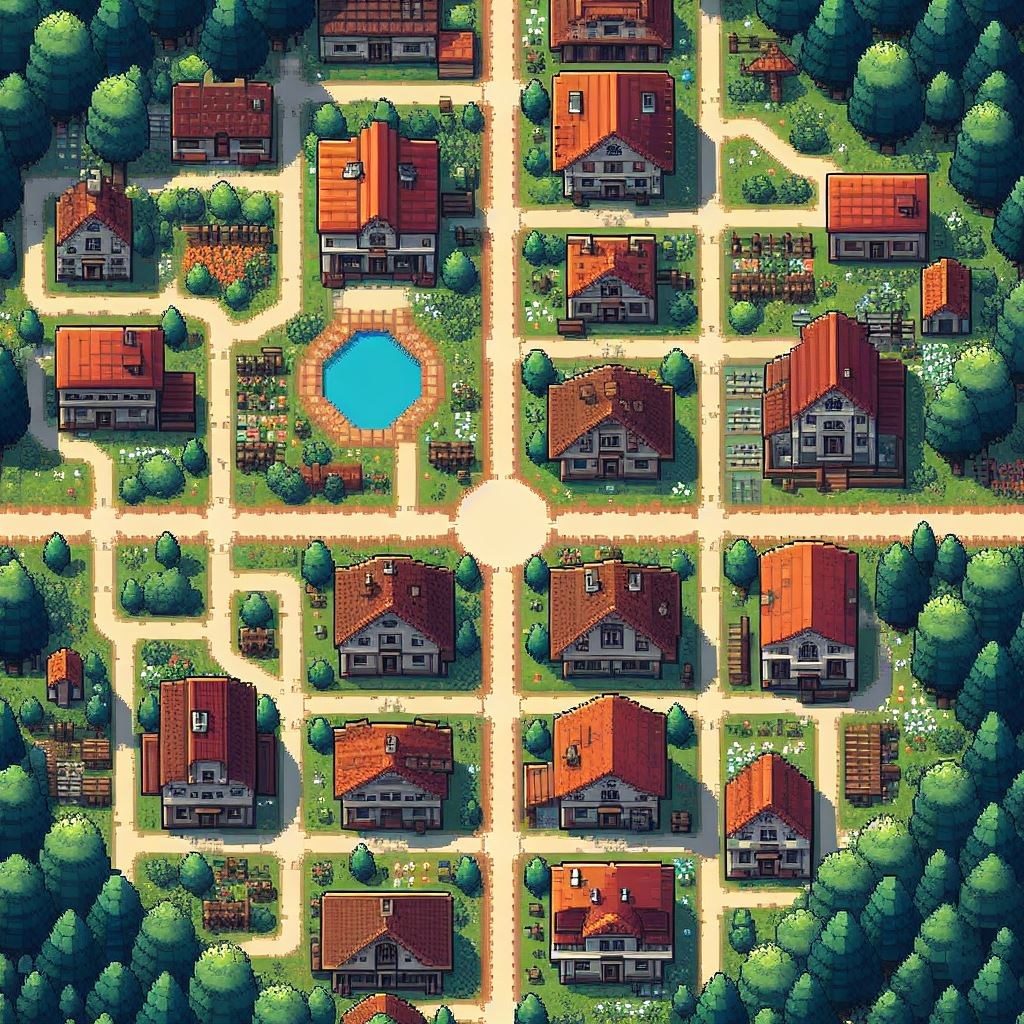
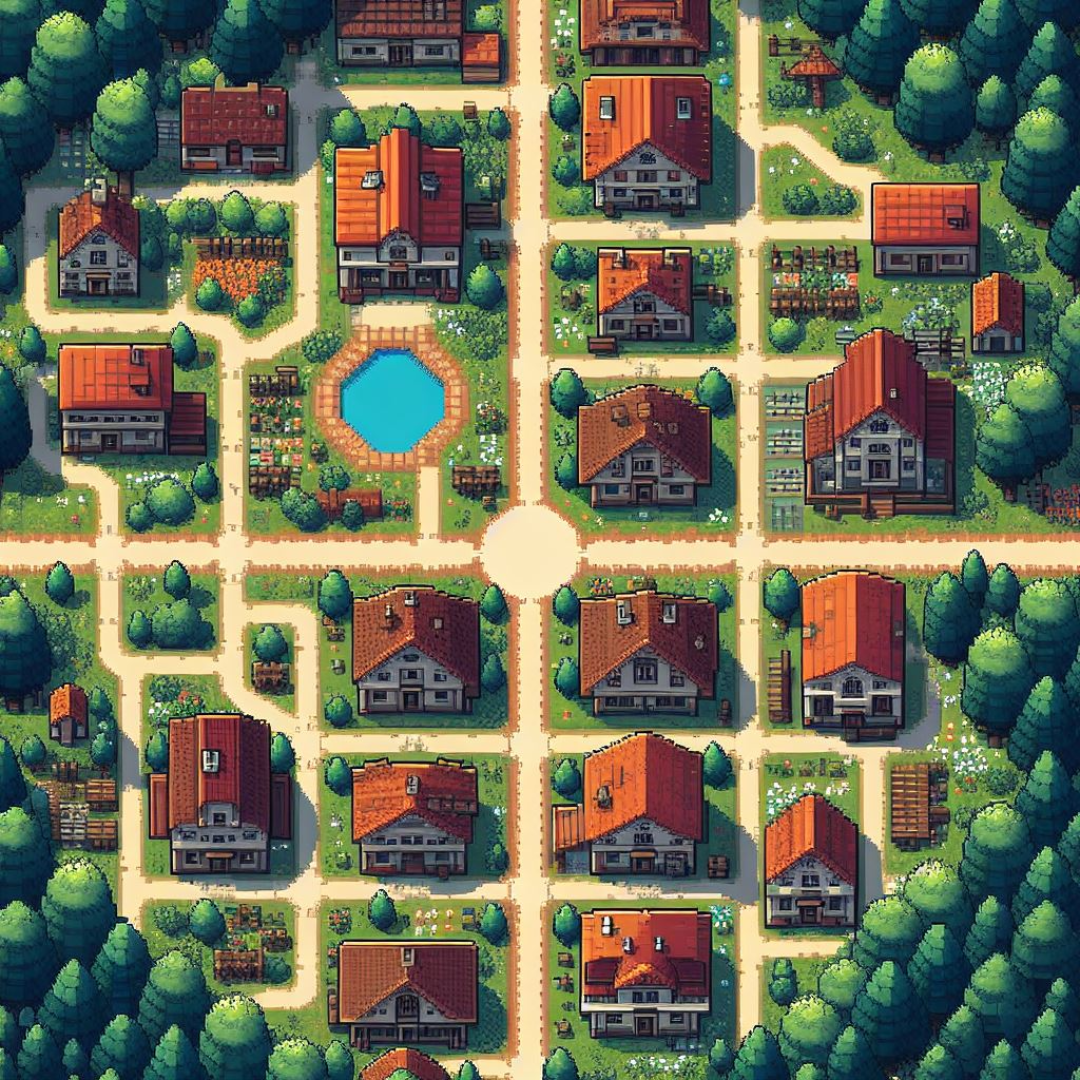
hitbox ok

diff --git a/src/hub.c b/src/hub.c
@@ -14,7 +14,7 @@ void init_hub (hub_t *h, Global_t *m)
     h->view = sfView_createFromRect((sfFloatRect){0, 0, 1080, 1080});
     h->rect = (sfIntRect){0, 520 + 65 * 2, 65, 65};
     h->sprite_perso = sfSprite_create();
-    h->texture_hub = sfTexture_createFromFile("maps/hub_detour.png", NULL);
+    h->texture_hub = sfTexture_createFromFile("maps/hub.png", NULL);
     h->sprite_hub = sfSprite_create();
     h->normal_view = sfView_createFromRect((sfFloatRect){0, 0, 1920, 1080});
     h->movement = (sfVector2f){0, 0};
